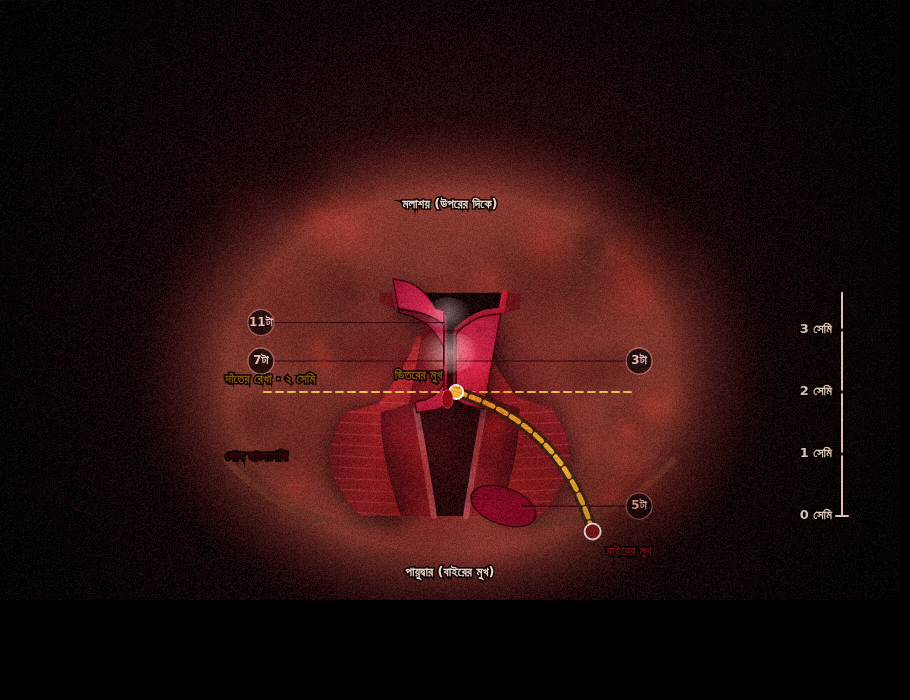
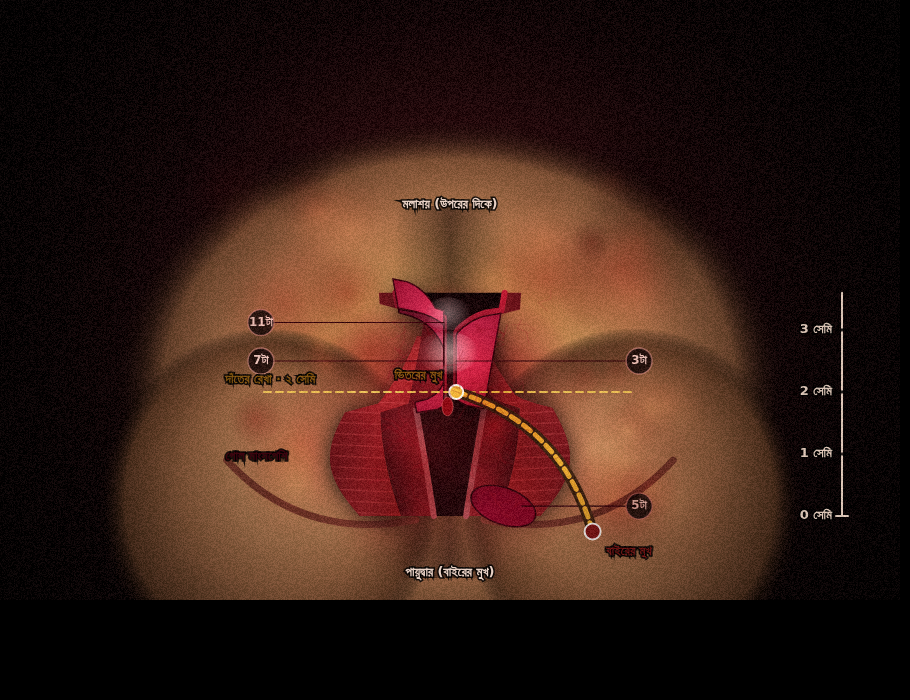
V558 demo proof: skin outside, red only where the body is opened
TK could not tell what the picture was of -- everything had gone red. Fixed by
layering it the way the body is: brown skin outermost, then fat, then the red
muscle and lining, so the red is confined to the cut. The two buttocks are
drawn around it, which is what makes the picture recognisable at a glance.

Also: the clock positions are no longer drawn unless the swelling is actually
marked. 3, 7 and 11 o'clock are where the three main cushions sit in the
textbooks and were only demo values here; the app must print what the doctor
marked and nothing else.

Claude-Session: https://claude.ai/code/session_01F8MQWDjf5mWR1Rkj87vdLQ

Changed region(s): [[0.1231, 0.21, 0.8615, 0.87], [0.4923, 0.57, 0.5231, 0.6]]

diff --git a/V558_ANATOMY_SECTION_DEMO_SOURCE.js b/V558_ANATOMY_SECTION_DEMO_SOURCE.js
@@ -98,9 +98,13 @@
        ভয় ধরানো ধরনে চারকোনা বাক্স নয় — কিনারা অন্ধকারে মিলিয়ে যায়,
        তাই ছবিটা আঁকা বাক্সের মত না লেগে সত্যিকারের মাংস মনে হয়।       */
     if (SCARY) {
-      var bg = ctx.createRadialGradient(cx, cy - 2.3 * CM, 0.5 * CM, cx, cy - 2.3 * CM, 4.6 * CM);
-      bg.addColorStop(0, C_FAT); bg.addColorStop(0.62, C_FAT2);
-      bg.addColorStop(0.86, 'rgba(60,16,18,0.55)'); bg.addColorStop(1, 'rgba(10,3,4,0)');
+      // ভিতরে লাল মাংস → বাইরে হলদে চর্বি → সবচেয়ে বাইরে বাদামি চামড়া
+      var bg = ctx.createRadialGradient(cx, cy - 2.0 * CM, 0.4 * CM, cx, cy - 2.0 * CM, 4.6 * CM);
+      bg.addColorStop(0.00, '#8C2A26');
+      bg.addColorStop(0.34, '#C08A52');
+      bg.addColorStop(0.62, '#A9724B');
+      bg.addColorStop(0.84, '#7A4E33');
+      bg.addColorStop(1.00, 'rgba(18,8,5,0)');
       ctx.save(); ctx.translate(cx, cy - 2.3 * CM); ctx.scale(1.18, 0.95); ctx.translate(-cx, -(cy - 2.3 * CM));
       ctx.fillStyle = bg;
       ctx.beginPath(); ctx.arc(cx, cy - 2.3 * CM, 4.6 * CM, 0, 6.3); ctx.fill();
@@ -120,6 +124,25 @@
         var ay = cy - 0.3 * CM - ((i * 53) % 45) / 45 * 4.4 * CM;
         ctx.beginPath(); ctx.arc(ax, ay, 5 + (i % 3) * 2, 0, 6.3); ctx.stroke();
       }
+    }
+
+    /* ---- দুই পাছা: এটা দেখলেই বোঝা যায় ছবিটা কিসের ---- */
+    if (SCARY) {
+      [-1, 1].forEach(function (sd) {
+        var bxc = cx + sd * 2.95 * CM, byc = cy - 0.15 * CM;
+        var cg = ctx.createRadialGradient(bxc - sd * 0.5 * CM, byc - 0.7 * CM, 0.2 * CM, bxc, byc, 2.75 * CM);
+        cg.addColorStop(0, '#C79062'); cg.addColorStop(0.55, '#9E6844');
+        cg.addColorStop(0.85, '#6B4229'); cg.addColorStop(1, 'rgba(16,7,4,0)');
+        ctx.save(); ctx.translate(bxc, byc); ctx.scale(1, 1.05); ctx.translate(-bxc, -byc);
+        ctx.fillStyle = cg;
+        ctx.beginPath(); ctx.arc(bxc, byc, 2.75 * CM, 0, 6.3); ctx.fill();
+        ctx.restore();
+      });
+      // দুই পাছার মাঝের খাঁজের ছায়া
+      var cl = ctx.createLinearGradient(cx - 0.9 * CM, 0, cx + 0.9 * CM, 0);
+      cl.addColorStop(0, 'rgba(20,8,6,0)'); cl.addColorStop(0.5, 'rgba(20,8,6,0.55)');
+      cl.addColorStop(1, 'rgba(20,8,6,0)');
+      ctx.fillStyle = cl; ctx.fillRect(cx - 0.9 * CM, cy - 5.0 * CM, 1.8 * CM, 6.0 * CM);
     }
 
     /* ---- চামড়ার কিনারা ---- */
@@ -222,7 +245,7 @@
       var tx = cx + side * 3.05 * CM;
       ctx.strokeStyle = C_PILELINE; ctx.lineWidth = 1.1;
       ctx.beginPath(); ctx.moveTo(cc[0], cc[1]); ctx.lineTo(tx, cc[1]); ctx.stroke();
-      tag(ctx, tx, cc[1], clockText(p.a) + 'টা');
+      if (p.marked !== false) tag(ctx, tx, cc[1], clockText(p.a) + 'টা');
     });
     /* ---- বাইরের পাইলস — দাঁতের রেখার নিচে, মুখের কাছে ---- */
     piles.forEach(function (p) {
